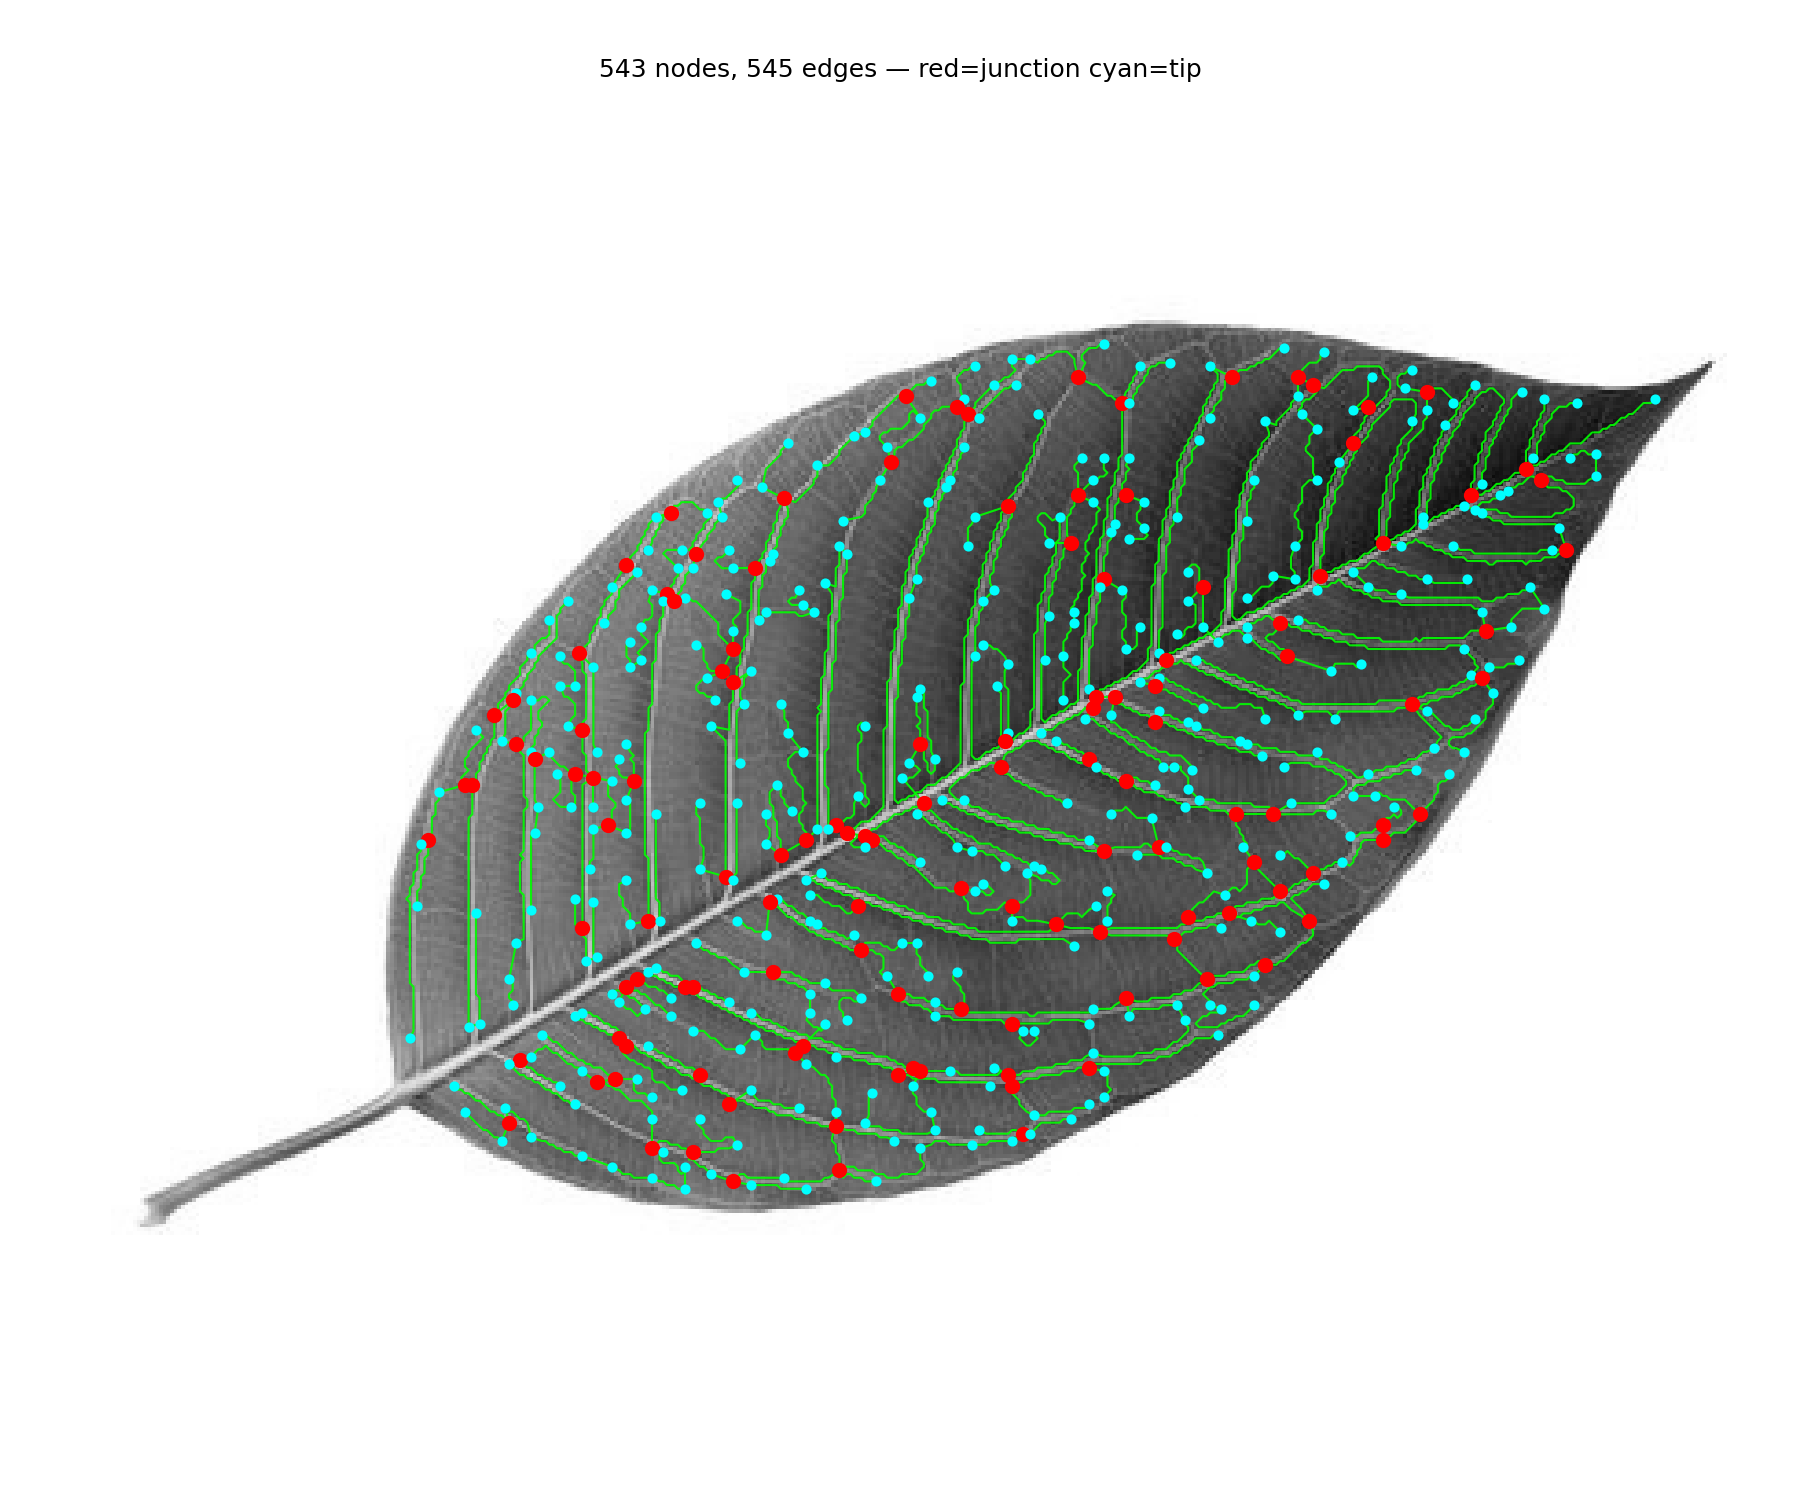
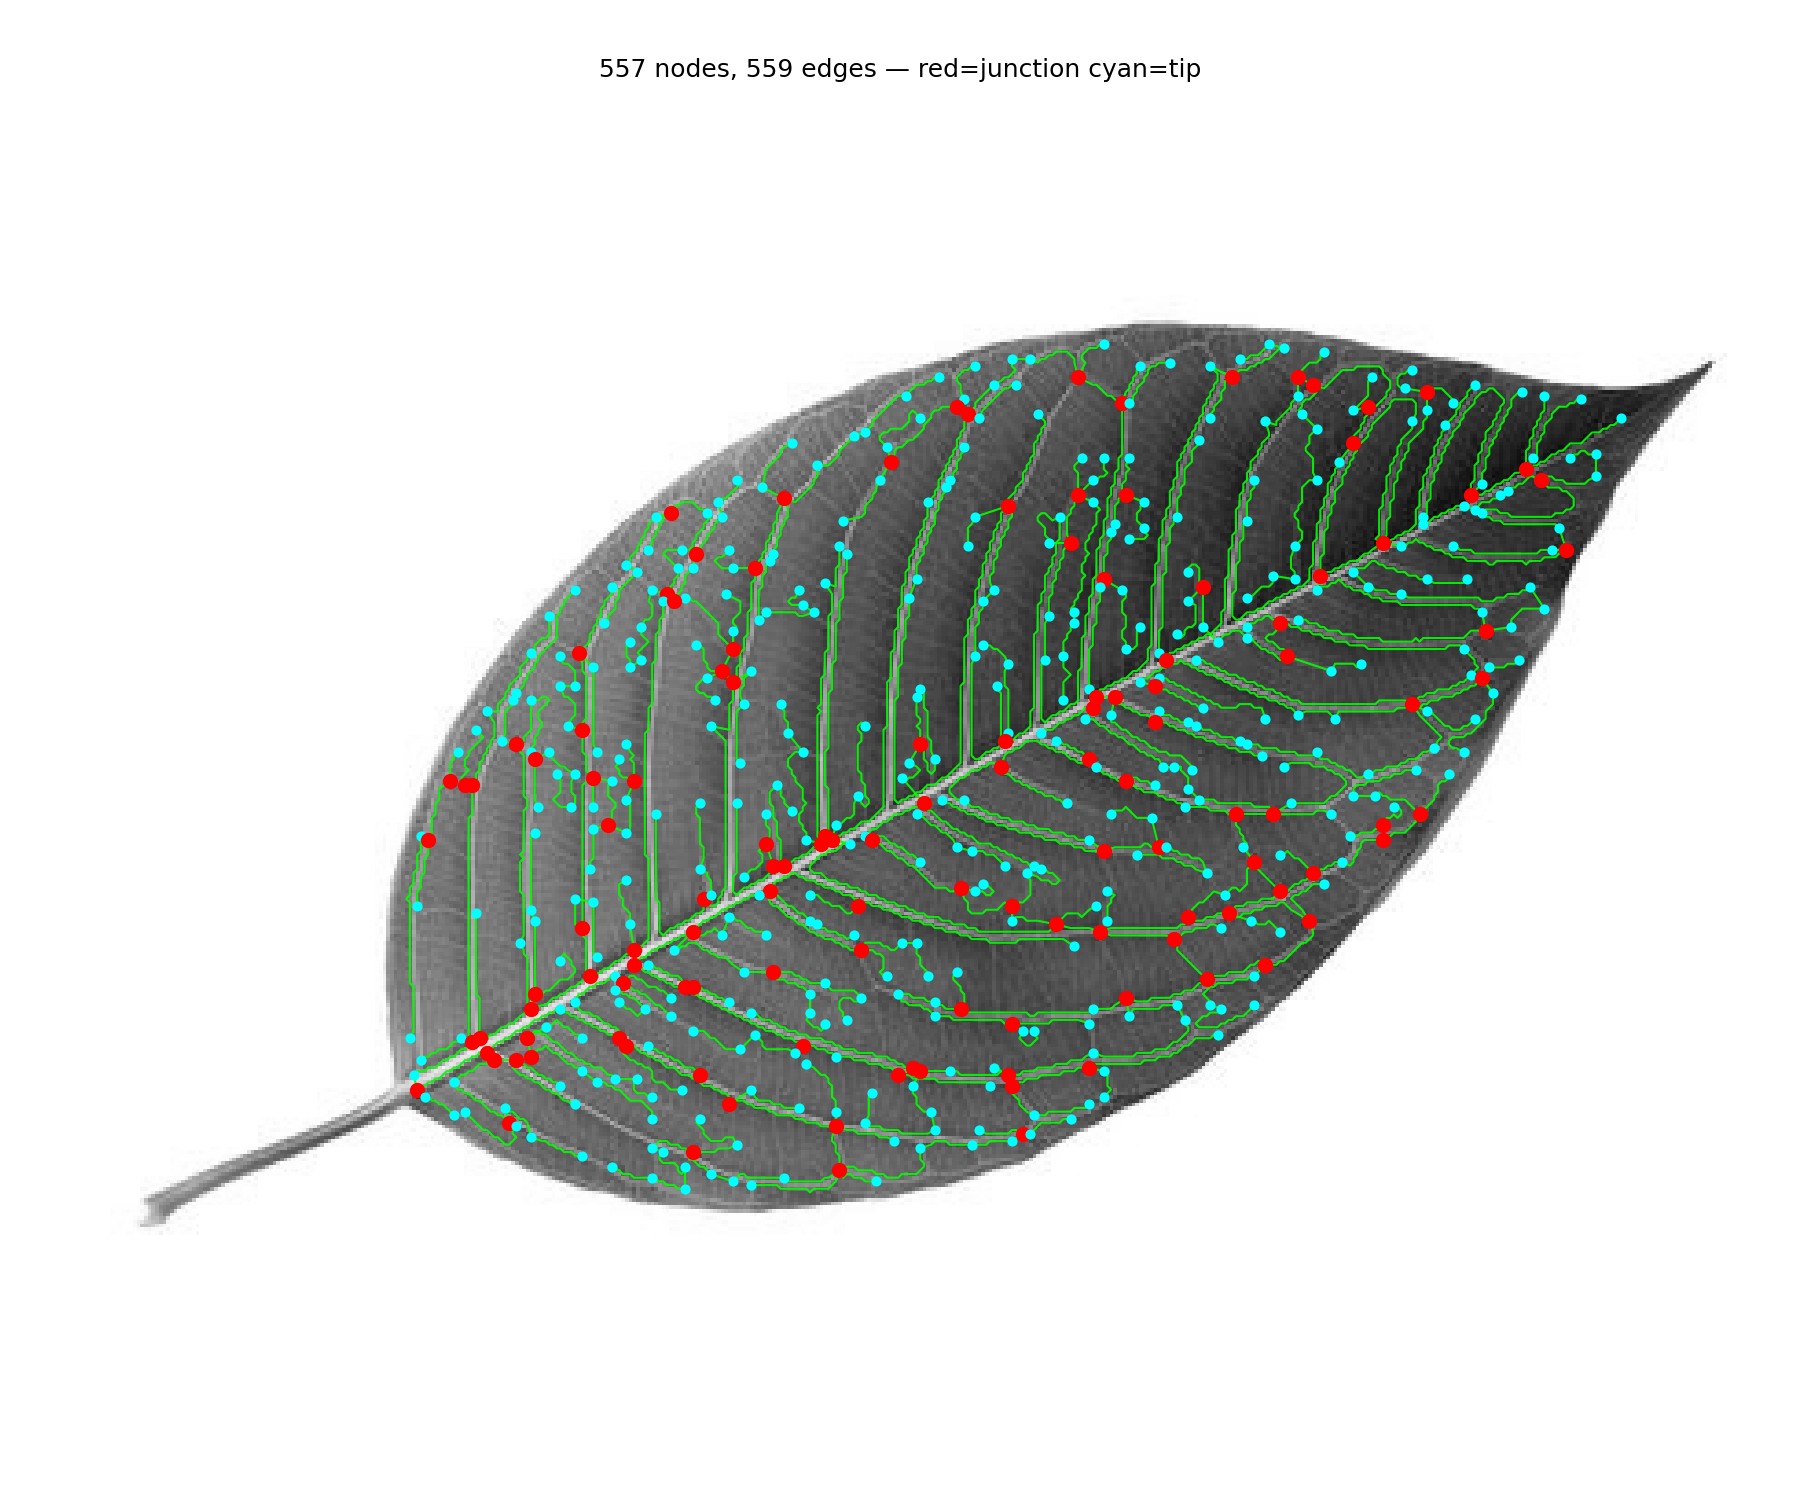
Added a rythm maker

diff --git a/generateRythm.py b/generateRythm.py
@@ -1,0 +1,262 @@
+import networkx as nx
+import numpy as np
+from midiutil import MIDIFile
+ 
+ 
+# ─── Helpers ──────────────────────────────────────────────────────────────────
+ 
+def get_node_position(G: nx.Graph, node: int) -> np.ndarray:
+    """Return [y, x] position of a node."""
+    return np.array(G.nodes[node]['o'])
+ 
+ 
+def find_nearest_node(G: nx.Graph, coord: list) -> int:
+    """Return the node ID whose position is closest to coord ([y, x])."""
+    coord = np.array(coord)
+    return min(G.nodes, key=lambda n: np.linalg.norm(get_node_position(G, n) - coord))
+ 
+ 
+ 
+ 
+def normalize_durations(raw_lengths: list, beats_per_bar: int = 16, min_step: float = 0.125) -> list:
+    total = sum(raw_lengths)
+    if total == 0:
+        n = max(len(raw_lengths), 1)
+        return [min_step] * n
+
+    # Square root to exaggerate relative differences
+    # e.g. 65k → 255, 92k → 303  (ratio 1.19x instead of 1.42x)
+    # You can swap np.sqrt for np.log to exaggerate even more aggressively
+    transformed = [l**0.1 for l in raw_lengths]
+
+    # Now normalize transformed values to sum to beats_per_bar
+    t_total = sum(transformed)
+    scale = beats_per_bar / t_total
+    scaled = [l * scale for l in transformed]
+
+    # Round to nearest min_step
+    step_units = int(round(1 / min_step))  # e.g. 8 for 0.125
+    rounded = [max(min_step, round(l * step_units) / step_units) for l in scaled]
+
+    # Fix rounding drift so sum == beats_per_bar exactly
+    target_steps = int(round(beats_per_bar / min_step))
+    current_steps = int(round(sum(rounded) / min_step))
+    diff = target_steps - current_steps
+
+    indices = sorted(range(len(rounded)), key=lambda i: rounded[i], reverse=(diff < 0))
+    for i in indices:
+        if diff == 0:
+            break
+        if diff > 0:
+            rounded[i] += min_step
+            diff -= 1
+        elif rounded[i] > min_step:
+            rounded[i] -= min_step
+            diff += 1
+
+    return rounded
+ 
+ 
+def normalize_bpm(spine_length: float,
+                  min_length: float = 450.0,
+                  max_length: float = 500.0,
+                  min_bpm: int = 60,
+                  max_bpm: int = 110) -> int:
+    """
+    Map spine length linearly to a BPM in [min_bpm, max_bpm].
+    Longer spine → slower BPM.
+    """
+    clamped = max(min_length, min(max_length, spine_length))
+    ratio = (clamped - min_length) / (max_length - min_length)
+    bpm = max_bpm - ratio * (max_bpm - min_bpm)
+    return int(round(bpm))
+ 
+ 
+# ─── Spine detection ──────────────────────────────────────────────────────────
+ 
+def get_spine_nodes(G: nx.Graph, top: list, bottom: list, padding: int = 10) -> list:
+    """
+    Return all node IDs whose [y, x] position lies within the bounding
+    rectangle formed by top and bottom, with ±padding on the x axis.
+    """
+    x_min = min(top[1], bottom[1]) - padding
+    x_max = max(top[1], bottom[1]) + padding
+    y_min = min(top[0], bottom[0])
+    y_max = max(top[0], bottom[0])
+
+
+    # Check how many nodes fall in range
+    count = 0
+    degrees = dict(G.degree())
+    spine_nodes = []
+    for n in G.nodes:
+        pos = G.nodes[n]['o']
+
+        ny, nx_ = pos[0], pos[1]
+        if x_min <= nx_ <= x_max and y_min <= ny <= y_max and degrees[n]>3:
+            count += 1
+            spine_nodes.append(n)
+            print(f"  node {n}: y={ny}, x={nx_}")
+ 
+    return spine_nodes
+ 
+ 
+def order_spine_nodes(spine_nodes: list, G: nx.Graph, bottom: list) -> list:
+    """
+    Order spine nodes from bottom to top by projecting onto the spine vector.
+    """
+    bottom_arr = np.array(bottom)
+    positions = [get_node_position(G, n) for n in spine_nodes]
+ 
+    # Spine direction: from bottom toward the node with smallest y (top of image)
+    top_pos = min(positions, key=lambda p: p[0])
+    spine_vec = top_pos - bottom_arr
+    spine_len = np.linalg.norm(spine_vec)
+    if spine_len == 0:
+        return spine_nodes
+ 
+    unit = spine_vec / spine_len
+ 
+    def projection(n):
+        pos = get_node_position(G, n)
+        return float(np.dot(pos - bottom_arr, unit))
+ 
+    return sorted(spine_nodes, key=projection)
+ 
+ 
+# ─── MIDI generation ──────────────────────────────────────────────────────────
+ 
+KICK_NOTE    = 36   # Bass drum (General MIDI)
+DRUM_CHANNEL = 9    # GM drum channel (0-indexed)
+DRUM_TRACK   = 0
+ 
+ 
+def generate_drum_midi(
+    G: nx.Graph,
+    top: list,
+    bottom: list,
+    output_path: str = "leaf_drums.mid",
+    beats_per_bar: int = 4,
+    velocity: int = 100,
+    padding: int = 10,
+) -> dict:
+    """
+    Generate a single-bar drum MIDI file from a leaf skeleton graph.
+ 
+    The mid-ridge nodes define kick drum hit positions within exactly
+    one bar. BPM is derived from the total spine length.
+ 
+    Parameters
+    ----------
+    G             : NetworkX graph from sknw.build_sknw
+    top           : [y, x] top of the mid-ridge
+    bottom        : [y, x] bottom of the mid-ridge
+    output_path   : path to write the .mid file
+    beats_per_bar : time signature numerator (4 for 4/4)
+    velocity      : MIDI velocity for kick hits (0–127)
+    padding       : ±x pixel width of the spine bounding box
+ 
+    Returns
+    -------
+    dict with bpm, spine_node_count, durations, output_path
+    """
+ 
+    # 1. Find and order spine nodes
+    spine_nodes = get_spine_nodes(G, top, bottom, padding)
+    if len(spine_nodes) < 2:
+        raise ValueError(
+            f"Only {len(spine_nodes)} spine node(s) found. "
+            "Try increasing padding or check top/bottom coordinates."
+        )
+    spine_nodes = order_spine_nodes(spine_nodes, G, bottom)
+ 
+    # 2. Euclidean distances between consecutive spine nodes
+    raw_lengths = []
+    for i in range(len(spine_nodes) - 1):
+        p1 = get_node_position(G, spine_nodes[i])
+        p2 = get_node_position(G, spine_nodes[i + 1])
+        raw_lengths.append(float(np.linalg.norm(p1 - p2)))
+ 
+    # 3. BPM from total spine length
+    spine_length = sum(raw_lengths)
+    bpm = normalize_bpm(spine_length)
+    print(raw_lengths)
+    # 4. Normalize durations — guaranteed to sum to exactly beats_per_bar
+    durations = normalize_durations(raw_lengths, beats_per_bar)
+    print(durations)
+    assert abs(sum(durations) - beats_per_bar) < 1e-9, \
+        f"Duration sum {sum(durations)} != {beats_per_bar}"
+ 
+    # 5. Build MIDI — exactly 1 bar
+    midi = MIDIFile(1)
+    midi.addTempo(DRUM_TRACK, 0, bpm)
+    # midi.addTimeSignature(
+    #     track=DRUM_TRACK,
+    #     time=0,
+    #     numerator=beats_per_bar,
+    #     denominator=4,          
+    #     clocks_per_tick=24,
+    # )
+ 
+    # Place kicks at cumulative beat times — all within [0, beats_per_bar)
+    beat_time = 0.0
+    for d in durations:
+        # Sanity guard: don't write past the bar
+        if beat_time >= beats_per_bar:
+            break
+        midi.addNote(
+            track=DRUM_TRACK,
+            channel=DRUM_CHANNEL,
+            pitch=KICK_NOTE,
+            time=beat_time,
+            duration=0.25,      # kick hit is always a short transient
+            volume=velocity,
+        )
+        beat_time += d
+ 
+    # 6. Write file
+    with open(output_path, "wb") as f:
+        midi.writeFile(f)
+ 
+    return {
+        "bpm": bpm,
+        "spine_node_count": len(spine_nodes),
+        "raw_lengths": raw_lengths,
+        "durations": durations,
+        "output_path": output_path,
+    }
+ 
+
+
+# ─── Example usage ────────────────────────────────────────────────────────────
+
+if __name__ == "__main__":
+    from extractLeafVein import find_main_vein_endpoints, build_graph,extract_veins
+    import cv2
+    import os
+
+    image_fileName = 'leaf2.png'
+    image_path = f'leavesImages/{image_fileName}'
+
+    if not os.path.exists(image_path):
+        print(f"Error: '{image_path}' not found.")
+        exit(1)
+
+    leafImage = cv2.imread(image_path, cv2.IMREAD_GRAYSCALE)
+    clahe = cv2.createCLAHE(clipLimit=2.0, tileGridSize=(8, 8))
+    enhanced = clahe.apply(leafImage)
+
+    vein = extract_veins(leafImage, enhanced)
+    G = build_graph(leafImage, vein)
+
+    n = list(G.nodes)[0]
+    print("hey")
+    print(G.nodes[n])
+    print(type(G.nodes[n]['o']))
+    print(G.nodes[n]['o'])
+    # --- Replace with your actual getTopBottom call ---
+    top, bottom = find_main_vein_endpoints(G,leafImage)
+
+    generate_drum_midi(G, top, bottom, output_path="leaf_drums.mid")
+
+

diff --git a/extractLeafVein.py b/extractLeafVein.py
@@ -17,22 +17,22 @@ def get_boundary_and_mask(image):
         gray = image.copy()
         img = cv2.cvtColor(gray, cv2.COLOR_GRAY2BGR)
 
-    # Try Otsu first
-    _, binary = cv2.threshold(gray, 0, 255, cv2.THRESH_BINARY + cv2.THRESH_OTSU)
-    if np.sum(binary > 0) > 0.5 * binary.size:
-        binary = cv2.bitwise_not(binary)
-    contours, _ = cv2.findContours(binary, cv2.RETR_EXTERNAL, cv2.CHAIN_APPROX_SIMPLE)
-    if contours:
-        largest = max(contours, key=cv2.contourArea)
-        area_ratio = cv2.contourArea(largest) / (gray.shape[0] * gray.shape[1])
-        if 0.20 < area_ratio < 0.90:
-            boundary_img = np.zeros_like(gray)
-            cv2.drawContours(boundary_img, [largest], -1, 255, thickness=3)
-            leaf_mask = np.zeros_like(gray)
-            cv2.drawContours(leaf_mask, [largest], -1, 255, thickness=-1)
-            pts = np.column_stack(np.where(boundary_img > 0))
-            print(f"Otsu boundary: {len(pts)} points, area={area_ratio:.2f}")
-            return pts, leaf_mask
+    # # Try Otsu first
+    # _, binary = cv2.threshold(gray, 0, 255, cv2.THRESH_BINARY + cv2.THRESH_OTSU)
+    # if np.sum(binary > 0) > 0.5 * binary.size:
+    #     binary = cv2.bitwise_not(binary)
+    # contours, _ = cv2.findContours(binary, cv2.RETR_EXTERNAL, cv2.CHAIN_APPROX_SIMPLE)
+    # if contours:
+    #     largest = max(contours, key=cv2.contourArea)
+    #     area_ratio = cv2.contourArea(largest) / (gray.shape[0] * gray.shape[1])
+    #     if 0.20 < area_ratio < 0.90:
+    #         boundary_img = np.zeros_like(gray)
+    #         cv2.drawContours(boundary_img, [largest], -1, 255, thickness=3)
+    #         leaf_mask = np.zeros_like(gray)
+    #         cv2.drawContours(leaf_mask, [largest], -1, 255, thickness=-1)
+    #         pts = np.column_stack(np.where(boundary_img > 0))
+    #         print(f"Otsu boundary: {len(pts)} points, area={area_ratio:.2f}")
+    #         return pts, leaf_mask
 
     # GrabCut fallback for complex backgrounds
     print("Using GrabCut")
